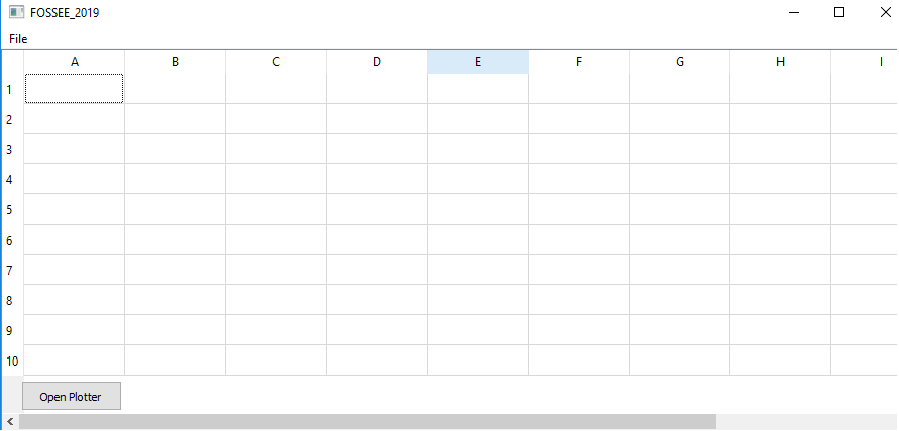
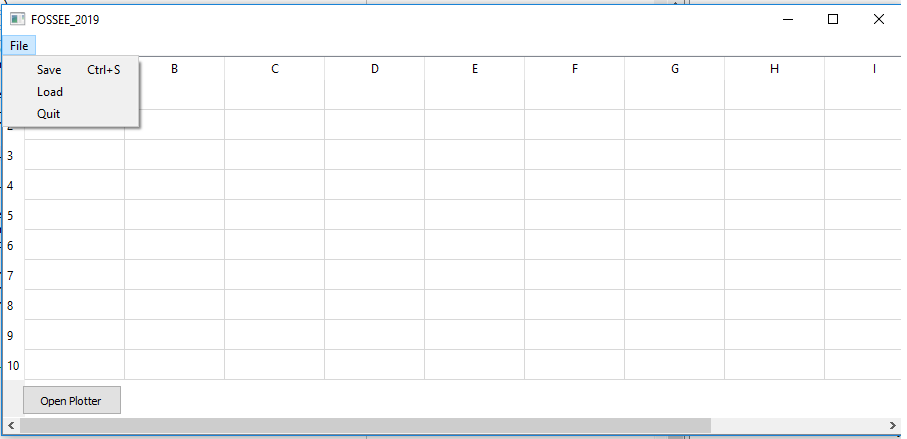
Final Modification

diff --git a/CsV Manipulator.py b/CsV Manipulator.py
@@ -81,7 +81,7 @@ class Sheet(QMainWindow):
         save_action = QAction('&Save', self)
         save_action.setShortcut('Ctrl+S')
 
-        open_action = QAction('&Open', self)
+        open_action = QAction('&Load', self)
 
         quit_action = QAction('&Quit', self)
 
